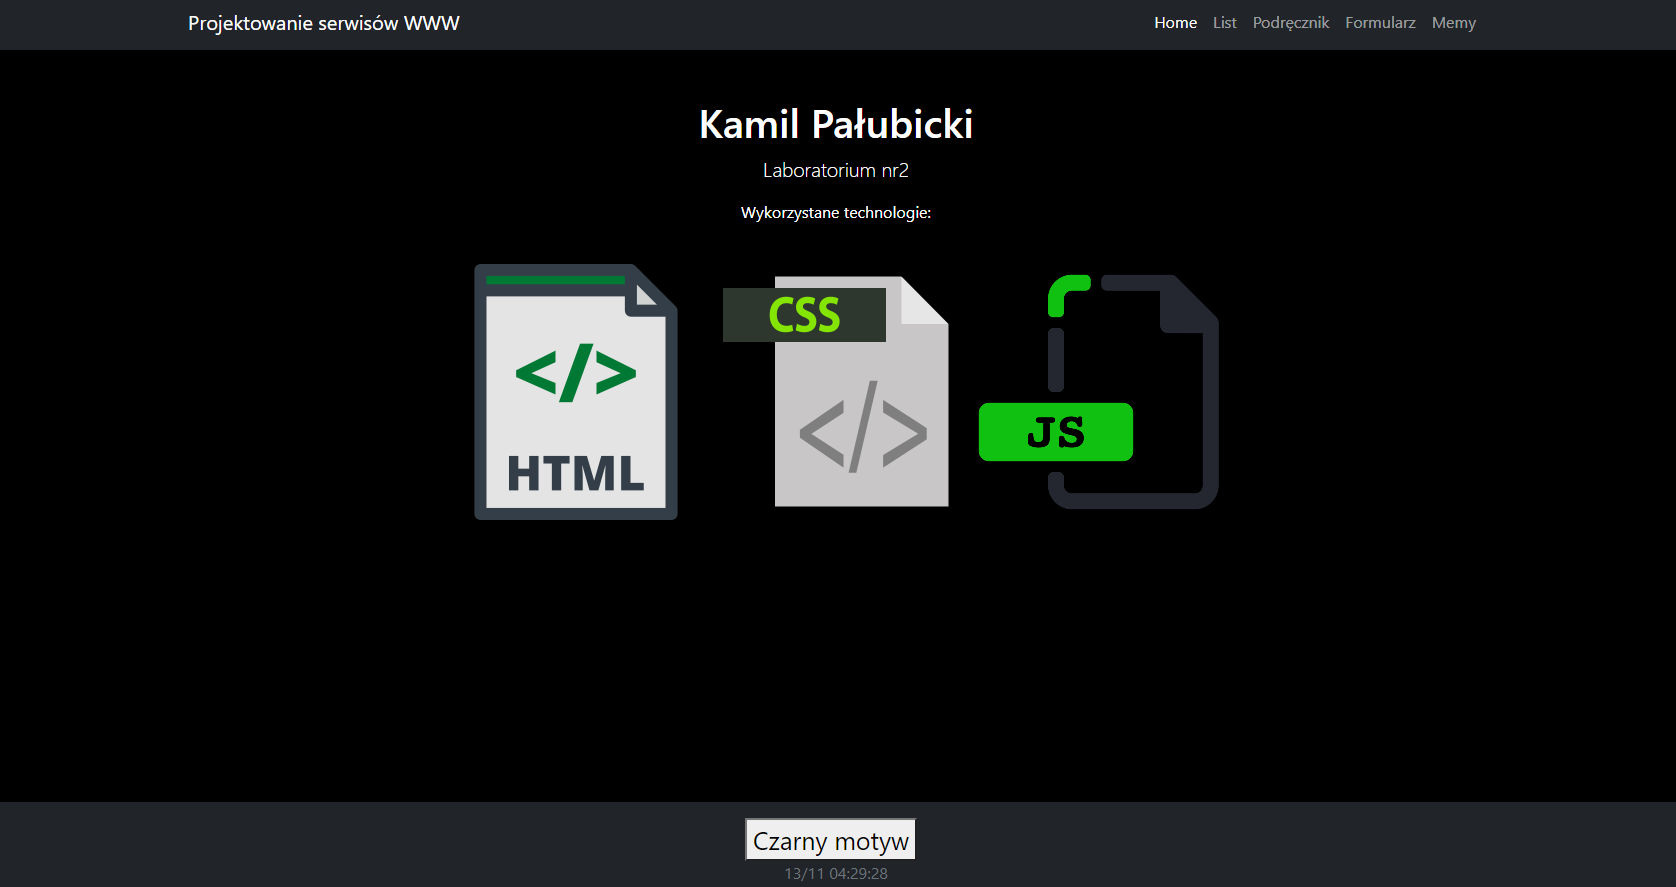
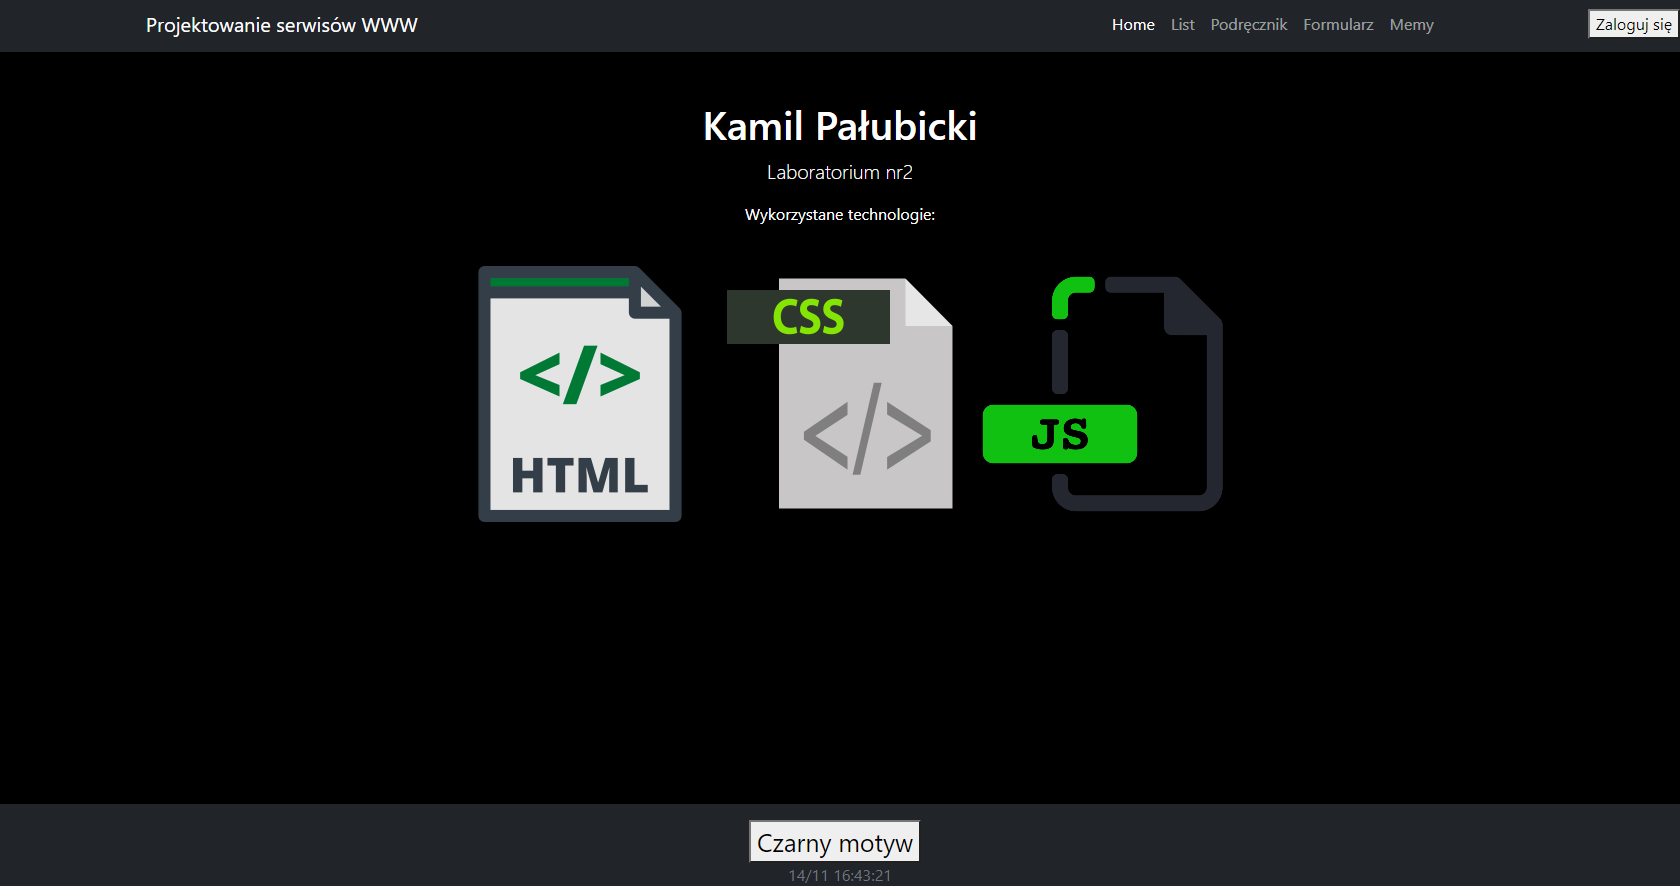
Update README.md with new features

diff --git a/Lab2/logowanie.html b/Lab2/logowanie.html
@@ -1,0 +1,43 @@
+<!doctype html>
+<html lang="en">
+<head>
+    <meta charset="utf-8" />
+    <meta name="viewport" content="width=device-width, initial-scale=1, shrink-to-fit=no" />
+    <meta name="description" content="" />
+    <meta name="author" content="Kamil Pałubicki" />
+    <title></title>
+    <!-- Favicon-->
+    <link rel="icon" type="image/x-icon" href="assets/flavicon.ico" />
+
+    <link rel="canonical" href="https://getbootstrap.com/docs/5.0/examples/sign-in/">
+    <link href="css/styles.css" rel="stylesheet"/>
+    <link href="css/signin.css" rel="stylesheet"/>
+</head>
+<body class="text-center">
+
+<main class="form-signin">
+    <form>
+        <img class="mb-4" src="/assets/bootstrap-logo.svg" alt="" width="72" height="57">
+        <h1 class="h3 mb-3 fw-normal">Zaloguj się poniżej</h1>
+
+        <div class="form-floating">
+            <input type="text" class="form-control" id="floatingInput" placeholder="Login">
+            <label for="floatingInput">Login</label>
+        </div>
+        <div class="form-floating">
+            <input type="password" class="form-control" id="floatingPassword" placeholder="Hasło">
+            <label for="floatingPassword">Hasło</label>
+        </div>
+
+        <div class="checkbox mb-3">
+            <label>
+                <input type="checkbox" value="zapamietaj"> Zapamiętaj mnie
+            </label>
+        </div>
+        <div class="w-100 btn btn-lg btn-primary" id="loginin">Zaloguj się</div>
+        <p class="mt-5 mb-3 text-muted">&copy; 2021</p>
+    </form>
+</main>
+<script src="js/logowanie.js"></script>
+</body>
+</html>

diff --git a/Lab2/memy.html b/Lab2/memy.html
@@ -7,7 +7,7 @@
     <meta name="author" content="Kamil Pałubicki" />
     <title></title>
     <!-- Favicon-->
-    <link rel="icon" type="image/x-icon" href="assets/favicon.ico" />
+    <link rel="icon" type="image/x-icon" href="assets/flavicon.ico" />
     <!-- Core theme CSS (includes Bootstrap)-->
     <link href="css/styles.css" rel="stylesheet" />
     <link href="css/lidi.css" rel="stylesheet" />
@@ -34,7 +34,7 @@
     <div class="text-center mt-5">
         <h1>Memy</h1>
         <img src="img/jsmeme.png"><br><br>
-        <div class="buttons-like-dislike" id="demoA"></div><br><br><br><br><br><br><br><br>
+        <div class="buttons-like-dislike" id="opinion"></div><br><br><br><br><br><br><br><br>
     </div>
 </div>
 <footer class="footer-sticky mt-auto py-3 bg-dark">
@@ -51,7 +51,7 @@
 <script>
     lidi.create({
         status : 1, // DEFAULT STATUS, 1 LIKE, -1 DISLIKE
-        hWrap : document.getElementById("demoA"),
+        hWrap : document.getElementById("opinion"),
         onChange : (status) => {
             var data = new FormData();
             data.append("status", status);

diff --git a/Lab2/podrecznik.html b/Lab2/podrecznik.html
@@ -7,7 +7,7 @@
   <meta name="author" content="Kamil Pałubicki" />
   <title></title>
   <!-- Favicon-->
-  <link rel="icon" type="image/x-icon" href="assets/favicon.ico" />
+  <link rel="icon" type="image/x-icon" href="assets/flavicon.ico" />
   <!-- Core theme CSS (includes Bootstrap)-->
   <link href="css/styles.css" rel="stylesheet" />
 </head>
@@ -41,7 +41,7 @@
       <br>
       <p class="polecenie">2. Dopasuj do ﬁgury wzór na jej pole.</p>
       <img src="img/zadanie2.png" class="zadanie">
-      <p class="rownanie">I. 2<i>a</i> &#178 + <i>a</i> &nbsp &nbsp II. &#189<i>a</i> &#178 + &#189<i>a</i> &nbsp &nbsp III. <i>a</i> &#178 + <i>a</i> &nbsp &nbsp IV. <i>a</i> + &#189</p>
+      <div class="rownanie">I. 2<i>a</i> &#178 + <i>a</i> &nbsp &nbsp II. &#189<i>a</i> &#178 + &#189<i>a</i> &nbsp &nbsp III. <i>a</i> &#178 + <i>a</i> &nbsp &nbsp IV. <i>a</i> + &#189</div>
       <p class="polecenie">3. Uzasadnij, że suma pól figur F<sub>1</sub> i F<sub>2</sub> równa się różnicy pól figur F<sub>3</sub> i F<sub>4</sub> </p>
       <img src="img/zadanie3.png" class="zadanie">
     </div>

diff --git a/Lab2/index.html b/Lab2/index.html
@@ -7,13 +7,13 @@
         <meta name="author" content="Kamil Pałubicki" />
         <title></title>
         <!-- Favicon-->
-        <link rel="icon" type="image/x-icon" href="assets/favicon.ico" />
+        <link rel="icon" type="image/x-icon" href="assets/flavicon.ico" />
         <!-- Core theme CSS (includes Bootstrap)-->
         <link href="css/styles.css" rel="stylesheet" />
     </head>
     <body id="content">
         <!-- Responsive navbar-->
-        <nav class="navbar navbar-expand-lg navbar-dark bg-dark">
+        <nav class="navbar navbar-expand-lg navbar-dark bg-dark" id="nav">
             <div class="container">
                 <a class="navbar-brand" href="#">Projektowanie serwisów WWW</a>
                 <button class="navbar-toggler" type="button" data-bs-toggle="collapse" data-bs-target="#navbarSupportedContent" aria-controls="navbarSupportedContent" aria-expanded="false" aria-label="Toggle navigation"><span class="navbar-toggler-icon"></span></button>

diff --git a/Lab2/css/signin.css b/Lab2/css/signin.css
@@ -1,0 +1,53 @@
+html,
+body {
+    height: 100%;
+}
+
+body {
+    display: flex;
+    align-items: center;
+    padding-top: 40px;
+    padding-bottom: 40px;
+    background-color: #f5f5f5;
+}
+
+.form-signin {
+    width: 100%;
+    max-width: 330px;
+    padding: 15px;
+    margin: auto;
+}
+
+.form-signin .checkbox {
+    font-weight: 400;
+}
+
+.form-signin .form-floating:focus-within {
+    z-index: 2;
+}
+
+.form-signin input[type="email"] {
+    margin-bottom: -1px;
+    border-bottom-right-radius: 0;
+    border-bottom-left-radius: 0;
+}
+
+.form-signin input[type="password"] {
+    margin-bottom: 10px;
+    border-top-left-radius: 0;
+    border-top-right-radius: 0;
+}
+
+.bd-placeholder-img {
+    font-size: 1.125rem;
+    text-anchor: middle;
+    -webkit-user-select: none;
+    -moz-user-select: none;
+    user-select: none;
+}
+
+@media (min-width: 768px) {
+    .bd-placeholder-img-lg {
+        font-size: 3.5rem;
+    }
+}

diff --git a/Lab2/js/index.js b/Lab2/js/index.js
@@ -40,3 +40,13 @@ darktheme.onclick = function (){
         content.style.color = "white";
     }
 }
+
+var logowanie = document.createElement("button");
+logowanie.innerHTML = "Zaloguj się";
+logowanie.id ="logowanko";
+logowanie.style.backgroundSize = "cover";
+document.getElementById("nav").appendChild(logowanie);
+
+logowanie.onclick = function(){
+    location.href = "logowanie.html";
+};

diff --git a/Lab2/list.html b/Lab2/list.html
@@ -7,7 +7,7 @@
   <meta name="author" content="Kamil Pałubicki" />
   <title></title>
   <!-- Favicon-->
-  <link rel="icon" type="image/x-icon" href="assets/favicon.ico" />
+  <link rel="icon" type="image/x-icon" href="assets/flavicon.ico" />
   <!-- Core theme CSS (includes Bootstrap)-->
   <link href="css/styles.css" rel="stylesheet" />
 </head>

diff --git a/Lab2/formularz.html b/Lab2/formularz.html
@@ -7,7 +7,7 @@
   <meta name="author" content="Kamil Pałubicki" />
   <title></title>
   <!-- Favicon-->
-  <link rel="icon" type="image/x-icon" href="assets/favicon.ico" />
+  <link rel="icon" type="image/x-icon" href="assets/flavicon.ico" />
   <!-- Core theme CSS (includes Bootstrap)-->
   <link href="css/styles.css" rel="stylesheet" />
 

diff --git a/Lab2/js/logowanie.js b/Lab2/js/logowanie.js
@@ -1,0 +1,8 @@
+var loging = document.getElementById("loginin");
+
+loging.onclick = function() {
+    location.href = "index.html";
+    var loginuser = document.getElementById("floatingInput").value;
+    alert("Witaj "+loginuser);
+};
+

diff --git a/Lab2/README.md b/Lab2/README.md
@@ -10,6 +10,13 @@
 
 <img src="assets/index2.png" alt="index"  style="float: left;" />
 
+<p>W prawym górnym rogu pojawiła się opcja zaloguj się która nas przenosi do podstrony logowania:<br></p>
+
+<img src="assets/index3.png" alt="index"  style="float: left;" />
+
+<p>Po uzupełnieniu danych i kliknięciu przycisku pojawia się alert powitalny<br></p>
+
+<img src="assets/index4.png" alt="index"  style="float: left;" />
 
 # list.html
 
